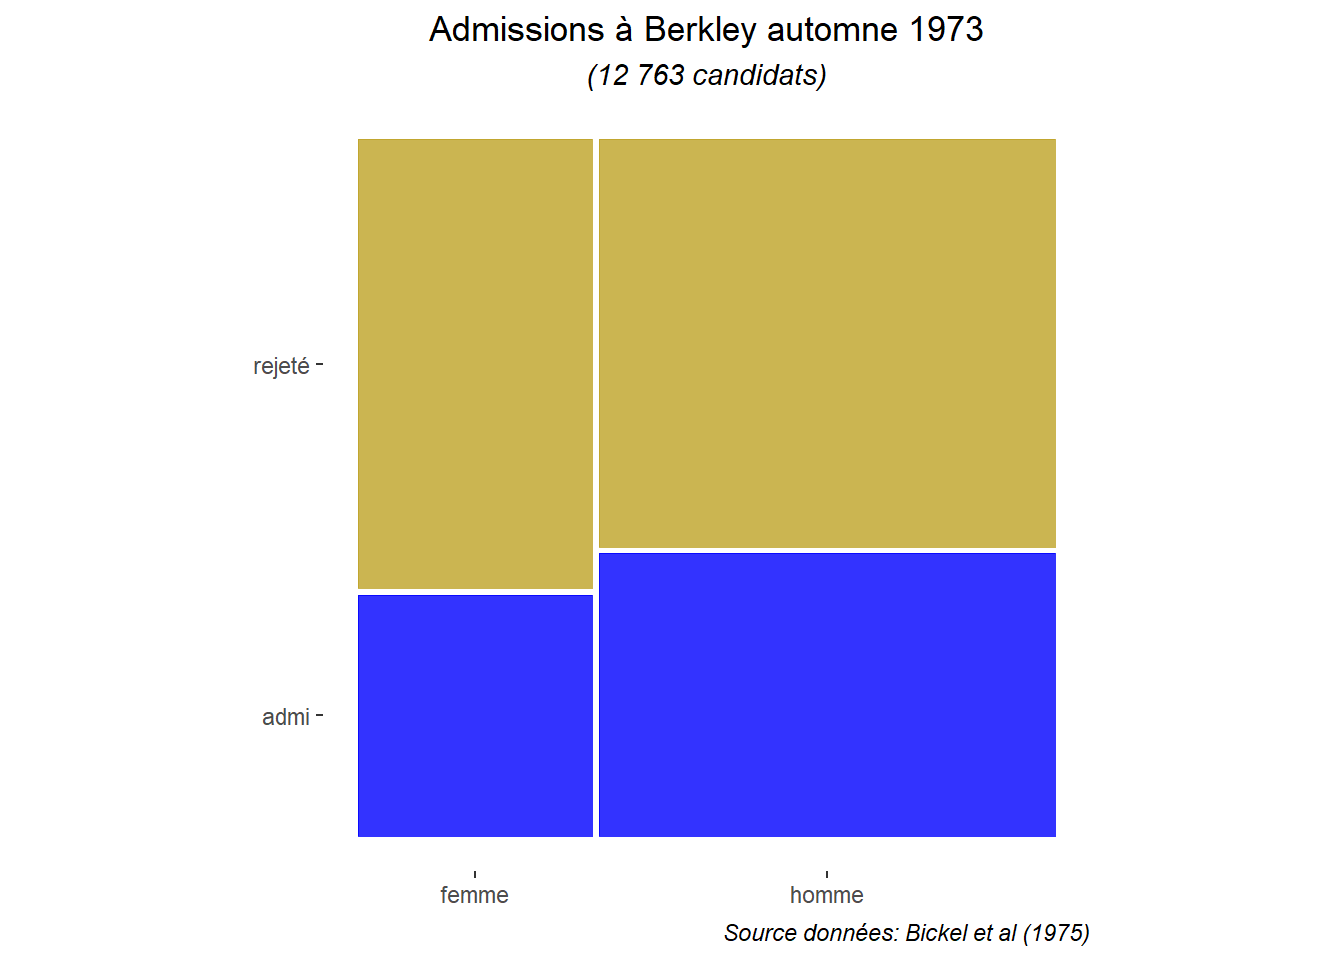
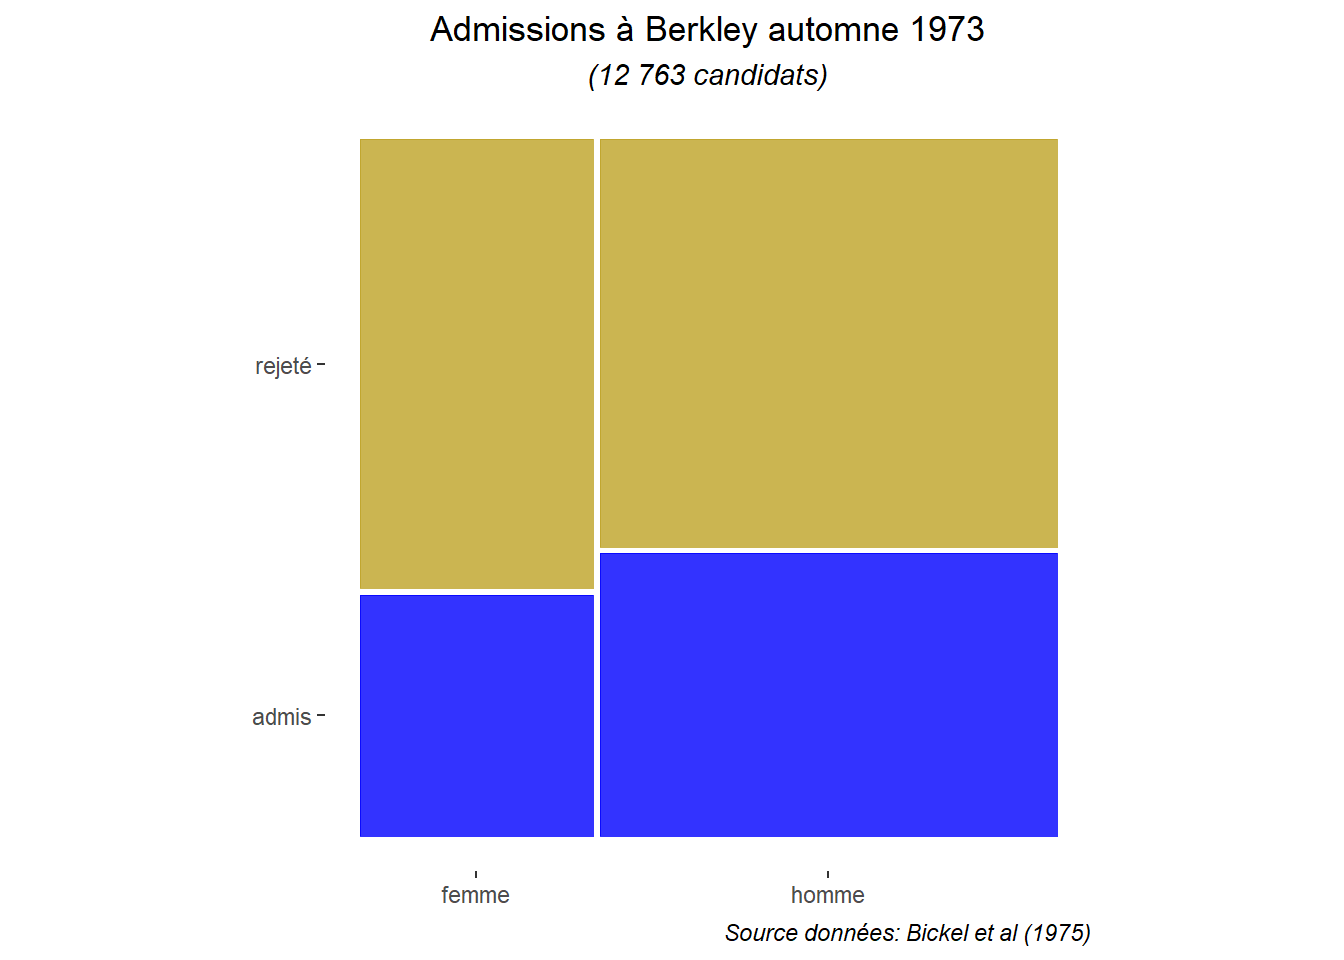
Mekko p GT6 v2 orth_cor 1

diff --git a/content/post/2022-01-07-le-diagramme-en-mosaic-et-le-graphe-marimekko-gt6/index.html b/content/post/2022-01-07-le-diagramme-en-mosaic-et-le-graphe-marimekko-gt6/index.html
@@ -16,7 +16,7 @@ tags:
 
 
 <p><strong>Continuons notre exploration des graphes permettant d’illustrer la comparaison entre des variables catégorielles avec une autre alternative aux diagrammes à bâtons. Intéressons-nous maintenant aux diagrammes en mosaïque et le graphe de Marimekko (ou Mekko). Ceux-ci mobilisent des éléments rectangulaires que se combinent dans unique rectangle. Chaque dimension de ce dernier est attachée à une des variables. Ainsi, on a sur la largeur (les abscisses) des barres accolées correspondant aux différentes modalités de la première variable et sur la longueur (les ordonnées) empilées les modalité de la seconde variable. Les séparations entre modalités reprises sur chaque dimension sont opérées de manière à représenter les effectifs des éléments qui la compose. La taille des groupes désignées par l’interaction des variables est ainsi reflété par la surface du rectangle qui lui correspond. Cela facilite l’identification des relations entre les variables.</strong></p>
-<p>Tout ceci est un peu abstrait… Prenons un exemple d’utilisation de ce type de graphe et profitons en pour comparer le rendu avec différentes formes de diagramme à bâtons. Mais, avant de nous lancern chargeons quelques packages utiles pour la suite.</p>
+<p>Tout ceci est un peu abstrait… Prenons un exemple d’utilisation de ce type de graphe et profitons en pour comparer le rendu avec différentes formes de diagramme à bâtons. Mais, avant de nous lancer chargeons quelques packages utils pour la suite.</p>
 <pre class="r"><code>library(tidyverse)
 library(patchwork)
 library(rvest)
@@ -37,13 +37,13 @@ dat1</code></pre>
 <p>L’information obtenue doit être retravailler pour permettre son traitement. Vous voudrions simplement une data frame avec une colonne pour le sexe du candidat et une pour son statut (admis ou rejeté). Utilisons la fonction <strong>rep()</strong> pour générer les observations correspondant et vérifions si le résultat est conforme au tableau que nous avons scrappé avec les fonctions <strong>table()</strong> et <strong>addmargins()</strong>.</p>
 <pre class="r"><code>dat1&lt;-data.frame(
   sexe=c(rep(&#39;homme&#39;,8442),rep(&#39;femme&#39;,4321)),
-  statut=c(rep(&#39;admi&#39;,round(8442*0.41)),
+  statut=c(rep(&#39;admis&#39;,round(8442*0.41)),
                   rep(&#39;rejeté&#39;,round(8442*0.59)),
-                  rep(&#39;admi&#39;,round(4321*0.35)),
+                  rep(&#39;admis&#39;,round(4321*0.35)),
                   rep(&#39;rejeté&#39;,round(4321*0.65))))
 addmargins(table(dat1))</code></pre>
 <pre><code>##        statut
-## sexe     admi rejeté   Sum
+## sexe    admis rejeté   Sum
 ##   femme  1512   2809  4321
 ##   homme  3461   4981  8442
 ##   Sum    4973   7790 12763</code></pre>
